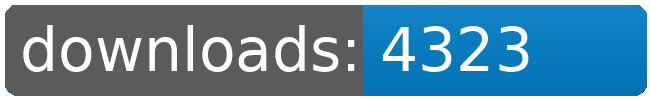
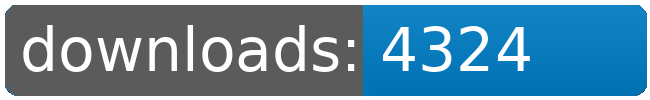
dl log written

Changed region(s): [[0.7692, 0.24, 0.8308, 0.72]]

diff --git a/README.md b/README.md
@@ -21,8 +21,8 @@
 		<td>4270</td>
 		<td>4285</td>
 		<td>4300</td>
-		<td>4323</td>
-		<td>+ 23</td>
+		<td>4324</td>
+		<td>+ 24</td>
 	</tr>
 	<tr>
 		<td>Factory.Outlets</td>
@@ -32,8 +32,8 @@
 		<td>4236</td>
 		<td>4255</td>
 		<td>4272</td>
-		<td>4298</td>
-		<td>+ 26</td>
+		<td>4299</td>
+		<td>+ 27</td>
 	</tr>
 	<tr>
 		<td>Fundamental.Outfit.Expansion</td>
@@ -109,8 +109,8 @@
 		<td></td>
 		<td></td>
 		<td></td>
-		<td>35905</td>
-		<td>208</td>
+		<td>35907</td>
+		<td>210</td>
 	</tr>
 </table>
 </sub></sup>
@@ -168,8 +168,8 @@
 		<td>4270</td>
 		<td>4285</td>
 		<td>4300</td>
-		<td>4323</td>
-		<td>+ 23</td>
+		<td>4324</td>
+		<td>+ 24</td>
 	</tr>
 	<tr>
 		<td>Solar.Sails</td>
@@ -190,8 +190,8 @@
 		<td>4236</td>
 		<td>4255</td>
 		<td>4272</td>
-		<td>4298</td>
-		<td>+ 26</td>
+		<td>4299</td>
+		<td>+ 27</td>
 	</tr>
 	<tr>
 		<td>Jaws</td>
@@ -223,8 +223,8 @@
 		<td></td>
 		<td></td>
 		<td></td>
-		<td>35905</td>
-		<td>208</td>
+		<td>35907</td>
+		<td>210</td>
 	</tr>
 </table>
 </sub></sup>
